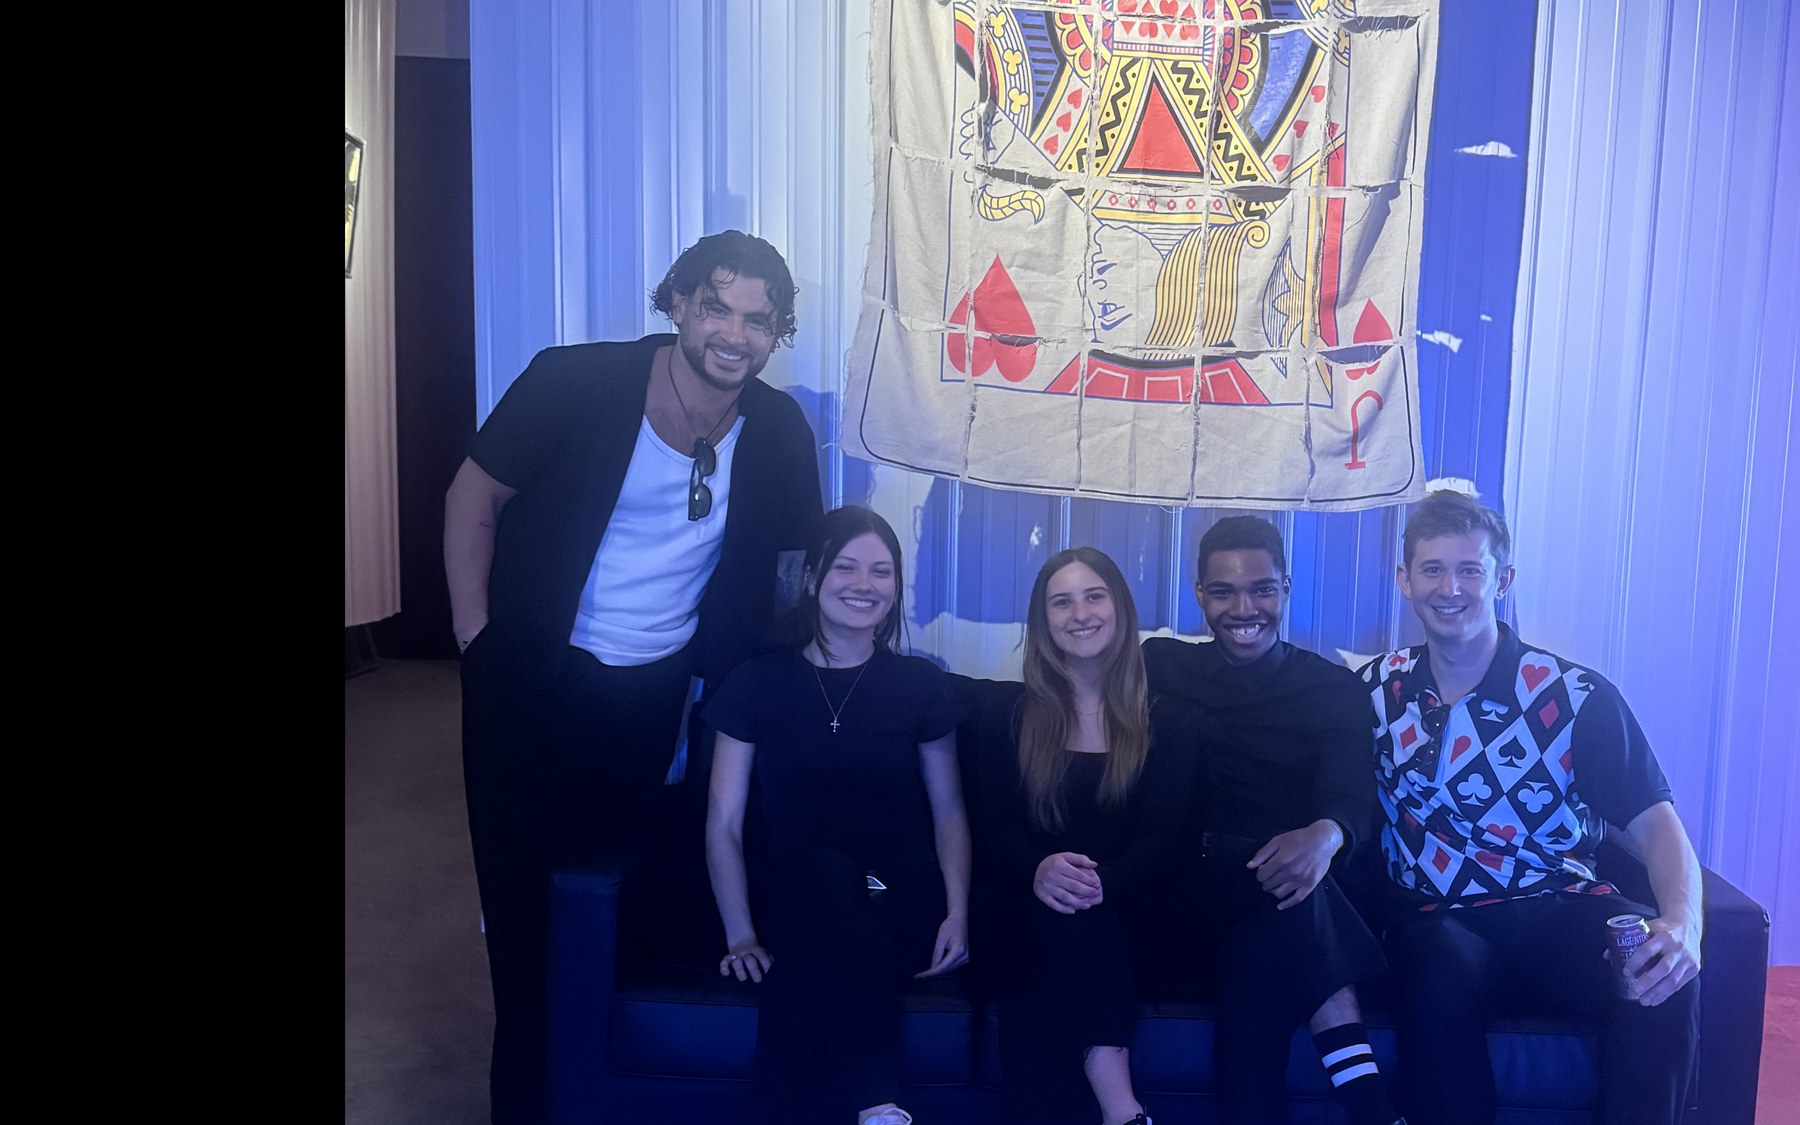
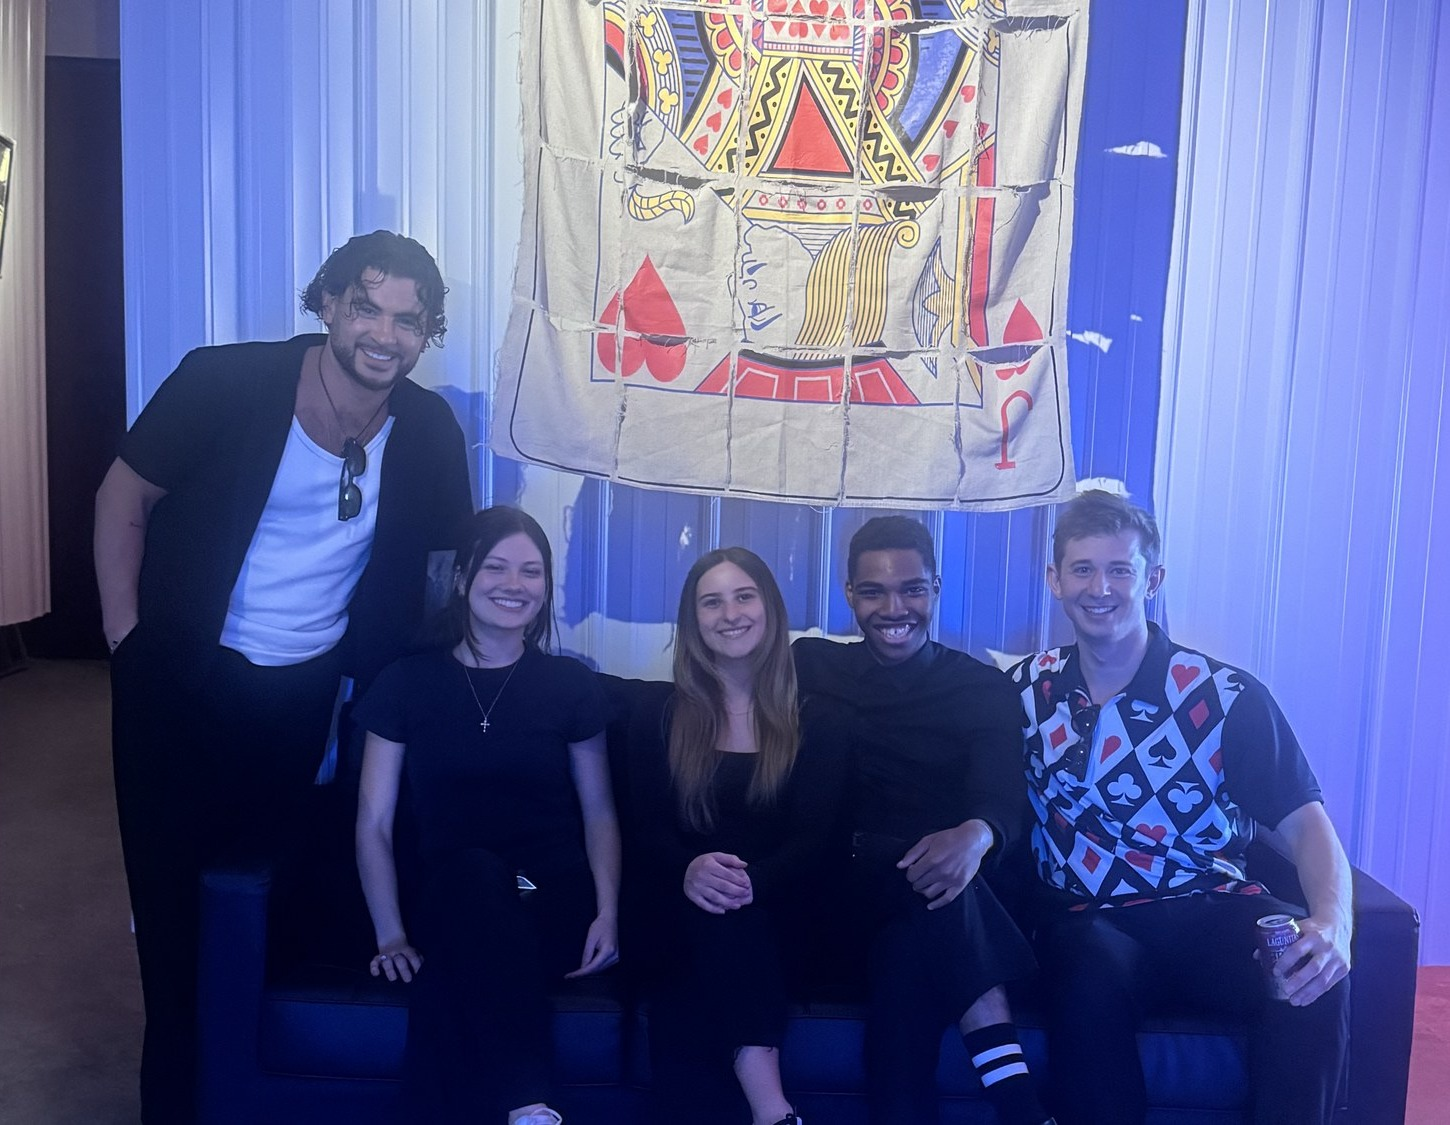
Polish Borderland home card and Results priority.
Crop crew photo for the callout, retitle image badges, drop the fuzzy Results intro, and reorder outcomes most-to-least for hiring managers.

diff --git a/work/borderland.html b/work/borderland.html
@@ -85,10 +85,6 @@
         </div>
 
         <h2 class="reveal">Results</h2>
-        <p class="reveal">
-          Borderland had two circles of “in”: people who earned their way past the entry games into the community,
-          and people who walked into Detroit venues. Both count — the season wasn’t only the nights that filled rooms.
-        </p>
         <table class="outcome-table reveal">
           <thead>
             <tr><th>Metric</th><th>Detail</th><th>Context</th></tr>
@@ -120,9 +116,29 @@
               <td class="why">Same product, repeated live delivery</td>
             </tr>
             <tr>
+              <td>5</td>
+              <td>Interactive immersive player-to-player games (Breakpoint, Echo, Fetch, Zombie Hunt + suite)</td>
+              <td class="why">In-room play depth — not computer gaming</td>
+            </tr>
+            <tr>
+              <td>4 of 5</td>
+              <td>Games ran through a Socket.IO mobile app — venue setup mostly décor + projector</td>
+              <td class="why">Cloneable experience, low night-of tech setup</td>
+            </tr>
+            <tr>
               <td>4 mo</td>
               <td>Project timeline — build, recruit, and run the live season</td>
               <td class="why">Dev + events + recruiting, done fast</td>
+            </tr>
+            <tr>
+              <td>Opening phase</td>
+              <td>Doors-open venue objectives scored live on the projector; leaders visible; advantages into later games</td>
+              <td class="why">Physical space ↔ digital lead board</td>
+            </tr>
+            <tr>
+              <td>On the clock</td>
+              <td>Doors-open timer: field phase → games like a live sports start; admin pause/reset; mid-game fixes via mobile agents</td>
+              <td class="why">Paced immersion, recoverable live ops</td>
             </tr>
             <tr>
               <td>1,000</td>
@@ -133,26 +149,6 @@
               <td>3</td>
               <td>Show-up channels: SMS + voice/voicemail + email</td>
               <td class="why">Same reminder stack every night</td>
-            </tr>
-            <tr>
-              <td>5</td>
-              <td>Interactive immersive player-to-player games (Breakpoint, Echo, Fetch, Zombie Hunt + suite)</td>
-              <td class="why">In-room play depth — not computer gaming</td>
-            </tr>
-            <tr>
-              <td>Field phase</td>
-              <td>Doors-open venue objectives scored live on the projector; leaders visible; advantages into later games</td>
-              <td class="why">Physical space ↔ digital lead board</td>
-            </tr>
-            <tr>
-              <td>4 of 5</td>
-              <td>Games ran through a Socket.IO mobile app — venue setup mostly décor + projector</td>
-              <td class="why">Cloneable experience, low night-of tech setup</td>
-            </tr>
-            <tr>
-              <td>On the clock</td>
-              <td>Doors-open timer: field phase → games like a live sports start; admin pause/reset; mid-game fixes via mobile agents</td>
-              <td class="why">Paced immersion, recoverable live ops</td>
             </tr>
             <tr>
               <td>29</td>

diff --git a/index.html b/index.html
@@ -352,14 +352,7 @@
       object-fit: cover;
       transition: transform 1.1s var(--ease);
     }
-    .case-visual--fit {
-      background: #0a0c12;
-    }
-    .case-visual--fit img {
-      object-fit: contain;
-    }
     .case:hover .case-visual img { transform: scale(1.04); }
-    .case:hover .case-visual--fit img { transform: none; }
     .case-visual .badge {
       position: absolute;
       left: 0.85rem;
@@ -371,22 +364,6 @@
       background: rgba(18, 21, 26, 0.78);
       color: var(--white);
       padding: 0.4rem 0.65rem;
-    }
-
-    .poster-strip {
-      display: grid;
-      grid-template-columns: repeat(4, 1fr);
-      gap: 0.4rem;
-      margin-top: 0.75rem;
-    }
-    .poster-strip img {
-      width: 100%;
-      aspect-ratio: 3 / 4;
-      object-fit: cover;
-      filter: saturate(0.92);
-    }
-    @media (max-width: 640px) {
-      .poster-strip { grid-template-columns: repeat(2, 1fr); }
     }
 
 
@@ -933,7 +910,7 @@
             </div>
             <div class="case-visual">
               <img src="assets/buymyspot/screenshot.jpg" alt="BuyMySpot find-a-spot — map and listings in Ann Arbor" />
-              <span class="badge">Marketplace</span>
+              <span class="badge">Parking marketplace</span>
             </div>
           </a>
           <div class="project-stats">
@@ -1039,17 +1016,9 @@
               </p>
               <span class="case-read">Read full case study</span>
             </div>
-            <div>
-              <div class="case-visual case-visual--fit">
-                <img src="assets/borderland/crew.jpg" alt="Borderland crew at a Detroit arena — Jack of Hearts backdrop" />
-                <span class="badge">Live tournament</span>
-              </div>
-              <div class="poster-strip" aria-label="Borderland venue posters">
-                <img src="assets/borderland/Chroma.jpg" alt="Clubs arena poster — Chroma" />
-                <img src="assets/borderland/tangent.jpg" alt="Diamonds arena poster — Tangent Gallery" />
-                <img src="assets/borderland/Lincoln.jpg" alt="Spades arena poster — Lincoln Street Art Park" />
-                <img src="assets/borderland/Russell.jpg" alt="Finale poster — Russell Art Building" />
-              </div>
+            <div class="case-visual">
+              <img src="assets/borderland/crew-card.jpg" alt="Borderland crew at a Detroit arena — Jack of Hearts backdrop" />
+              <span class="badge">Event team</span>
             </div>
           </a>
           <div class="project-stats">